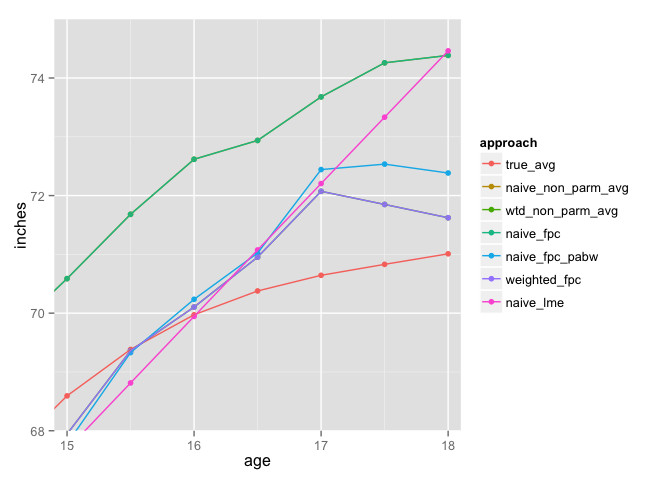
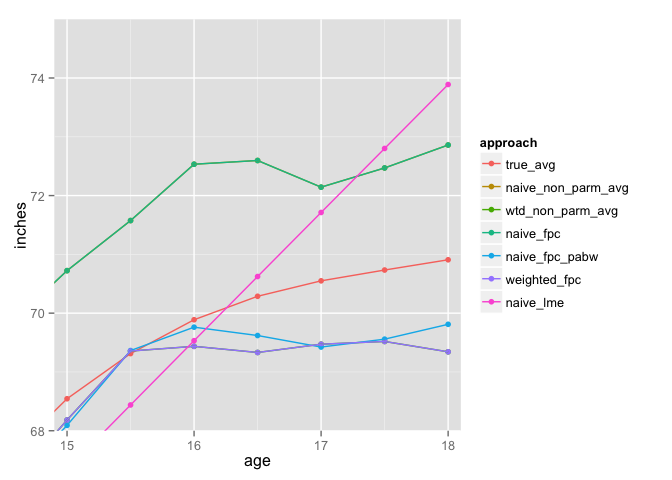
age_coef=.3 sim results

diff --git a/readMe.md b/readMe.md
@@ -117,9 +117,9 @@ round(results,2)
 
 ```
 ##   naive_non_parm_avg wtd_non_parm_avg naive_fpc naive_fpc_pabw
-## 1               1.54             0.39      1.54           0.56
+## 1               1.26             0.49      1.26           0.44
 ##   weighted_fpc naive_lme
-## 1         0.39       0.9
+## 1         0.49      0.82
 ```
 
 
@@ -131,6 +131,29 @@ We did a simulation for a 1000 instances and got:
 #               1.05               0.45               1.05               0.48               0.45 
 #          naive_lme 
 #               0.86 
+```
+
+WE lowered sample sizes to 100 (from the 1000 above) for a 1000 instances and the "gains" of the approach were diminished:
+
+```r
+# > round(colMeans(rbind.all.files),2)
+# naive_non_parm_avg   wtd_non_parm_avg          naive_fpc     naive_fpc_pabw       weighted_fpc 
+#               1.37               1.20               1.37               1.23               1.20 
+#          naive_lme 
+#               0.89 
+```
+
+
+Going back to sample_size=1000, we increased the strength
+of prob.cens on age from 
+
+
+```r
+#> round(colMeans(rbind.all.files),2)
+# naive_non_parm_avg   wtd_non_parm_avg          naive_fpc     naive_fpc_pabw       weighted_fpc 
+#               1.24               0.97               1.24               1.18               0.97 
+#          naive_lme 
+#               0.85 
 ```
 
 
@@ -145,6 +168,6 @@ ggplot(growth.mlt, aes(x=Var1, y=inches, group=Var2)) +
   geom_line() + facet_wrap(~ L1)
 ```
 
-![plot of chunk unnamed-chunk-4](./readMe_files/figure-html/unnamed-chunk-4.png) 
+![plot of chunk unnamed-chunk-6](./readMe_files/figure-html/unnamed-chunk-6.png) 
 
 
